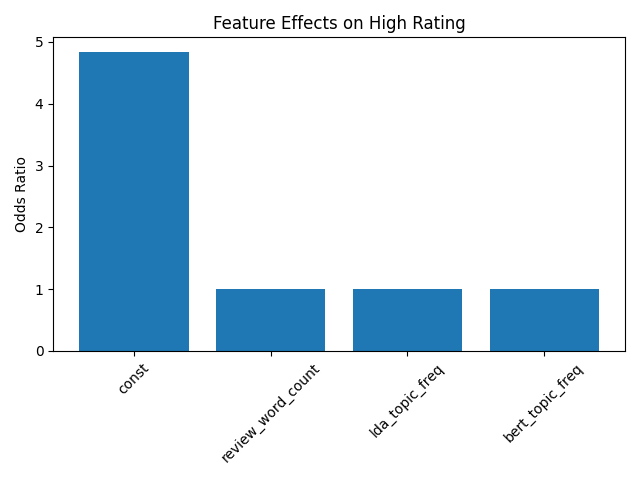
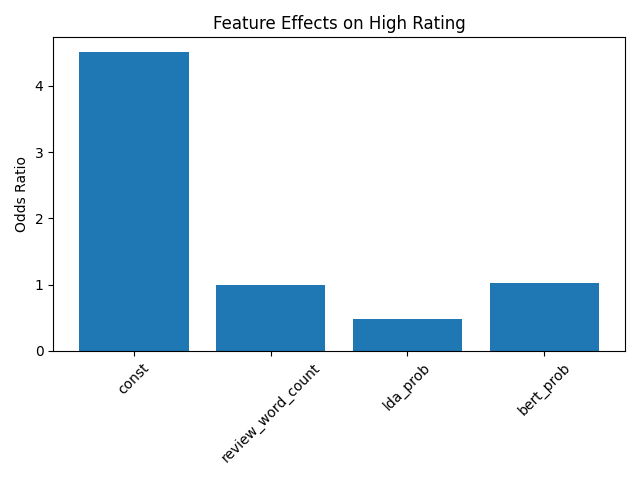
final evaluations

diff --git a/Statistical_Analysis/evaluation_tests.py b/Statistical_Analysis/evaluation_tests.py
@@ -2,7 +2,7 @@ from scipy.stats import spearmanr, chi2_contingency
 import pandas as pd
 import statsmodels.api as sm
 import numpy as np
-from sklearn.metrics import accuracy_score
+from sklearn.metrics import accuracy_score, cohen_kappa_score
 import os
 import matplotlib.pyplot as plt
 
@@ -25,7 +25,7 @@ def model_evaluations():
     reviews["bert_topic_freq"] = reviews.groupby("bert_topic")["bert_topic"].transform("count")
 
     # Spearman Correlation
-    print("[MODEL EVAL]: Calculate Spearman Correlation.")
+    print("[MODEL EVAL]: Calculate Spearman correlation.")
 
     vader_df = reviews[["VADER_compound", "rating"]].dropna()
     roberta_df = reviews[["roberta_compound", "rating"]].dropna()
@@ -47,8 +47,18 @@ def model_evaluations():
     plt.savefig(os.path.join(PLOTS_DIR, "RoBERTa_sentiment_star_rating.png"))
     plt.close()
 
+    # Understand sentiment model agreement
+    print("[MODEL EVAL]: Calculate sentiment model agreement.")
+    kappa = cohen_kappa_score(reviews["roberta_positive"], reviews["vader_positive"])
+
+    # Save result
+    with open(os.path.join(PLOTS_DIR, "cohens_kappa.txt"), "w") as f:
+        f.write(f"Cohen's Kappa: {kappa:.4f}")
+
+    print(f"Cohen's Kappa: {kappa:.4f}")
+
     # Chi-square Tests
-    print("[MODEL EVAL]: Perform Chi-square Tests.")
+    print("[MODEL EVAL]: Perform Chi-square tests.")
 
     def plot_heatmap(table, title, filename):
         plt.figure()
@@ -104,10 +114,42 @@ def model_evaluations():
     print(f"LDA χ²={chi2:.2f}, p={p:.3e}, Cramér's V={cramers_v(chi2, n, r, k):.3f}")
     plot_heatmap(table, "LDA Topic vs RoBERTa Sentiment", "lda_heatmap.png")
 
+    # Topic-level sentiment summaries
+    print("[MODEL EVAL]: Topic-level sentiment summaries.")
+
+    topic_sentiment = reviews.groupby("bert_topic")["roberta_compound"].agg(["mean", "std", "count"])
+    topic_sentiment = topic_sentiment.sort_values("mean", ascending=False)
+
+    # Save table
+    topic_sentiment.to_csv(os.path.join(PLOTS_DIR, "bert_topic_sentiment_summary.csv"))
+
+    # Bar plot of mean sentiment
+    plt.figure()
+    plt.bar(topic_sentiment.index.astype(str), topic_sentiment["mean"])
+    plt.xticks(rotation=90)
+    plt.ylabel("Mean Sentiment")
+    plt.xlabel("BERTopic Topic")
+    plt.title("Average Sentiment by Topic")
+    plt.tight_layout()
+    plt.savefig(os.path.join(PLOTS_DIR, "bert_topic_sentiment_means.png"))
+    plt.close()
+
+    print("[MODEL EVAL]: Plot sentiment distribution by topic.")
+
+    plt.figure()
+    reviews.boxplot(column="roberta_compound", by="bert_topic", rot=90)
+    plt.title("Sentiment Distribution by BERTopic Topic")
+    plt.suptitle("")
+    plt.xlabel("Topic")
+    plt.ylabel("Sentiment Score")
+    plt.tight_layout()
+    plt.savefig(os.path.join(PLOTS_DIR, "sentiment_by_topic_boxplot.png"))
+    plt.close()
+
     # Logistic Regression (Ratings)
     print("[MODEL EVAL]: Perform Logistic Regression: Predicting High Rating.")
 
-    X = reviews[["review_word_count", "lda_topic_freq", "bert_topic_freq"]].copy()
+    X = reviews[["review_word_count", "lda_prob", "bert_prob"]].copy()
     X = sm.add_constant(X)
     y = reviews["high_rating"]
 
@@ -139,7 +181,6 @@ def model_evaluations():
 
     # Logistic Regression (Sentiment)
     print("[MODEL EVAL]: Perform Logistic Regression: Predicting Sentiment.")
-
     y_sent = reviews["roberta_positive"].loc[valid_idx]
 
     model_sent = sm.Logit(y_sent, X_clean).fit()
@@ -182,7 +223,6 @@ def model_evaluations():
 
     # Temporal Analysis
     print("[MODEL EVAL]: Conduct Temporal Analysis.")
-
     reviews["year"] = pd.to_datetime(reviews["date"], errors="coerce").dt.year
 
     roberta_time = reviews.groupby("year")["roberta_compound"].mean()
